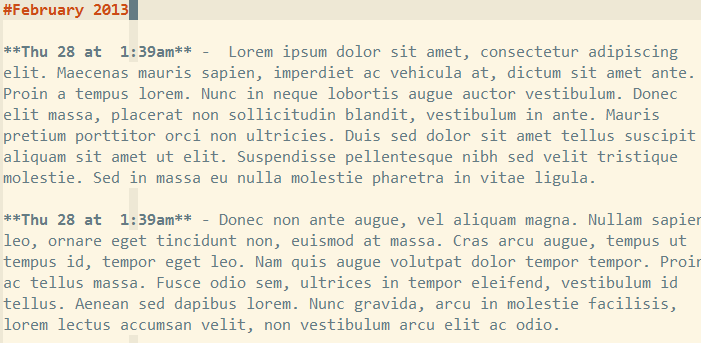
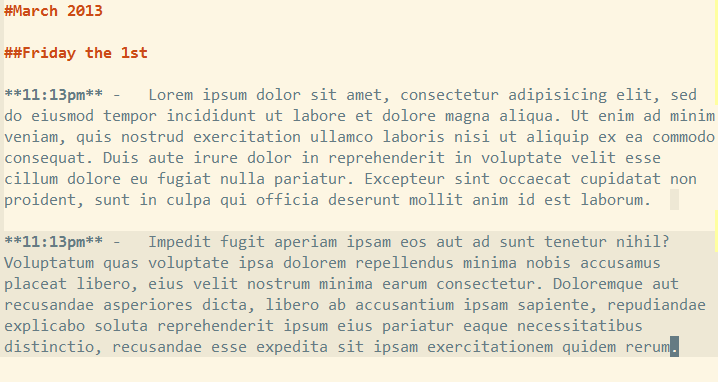
Added configuration handling and privacy page.
Added new functionality allowing users to create a config.yml file in their
dropbox directory to change the way headings are formated.

Also added new content to the About page, and created Configuration and Privacy
pages to explain new features.

diff --git a/app.rb b/app.rb
@@ -4,7 +4,8 @@ require 'yaml'
 require 'dropbox_sdk'
 require 'active_support/core_ext/integer/inflections'
 
-config = YAML::load(File.open('config.yml'))
+YAML::ENGINE.yamler= 'syck'
+config = YAML::load_file('config.yml')
 
 APP_KEY = config['key']
 APP_SECRET = config['secret']
@@ -50,35 +51,55 @@ end
 
 post '/write' do
 
+    # make sure the user authorized with Drobox
     redirect '/login' unless session != nil && session.authorized?
 
     entry = params[:entry]
 
+    # if empty string was submitted, do nothing
     redirect '/write' if entry.empty?
 
     # figure out the name of the file for dropbox
+    # Default format is YYYY-MM-Monthname.markdown
     tm = Time.now
-
     dropFileName = tm.strftime("%Y-%m.%B") + ".markdown"
 
-    # Define the headings:
-
-    # Time of post
-    heading = "**" + tm.strftime("%l:%M%P") + "** -\t"
-    # Day of the week
-    daily_heading = "##" + tm.strftime("%A") + " the " + tm.day.ordinalize
-    # Month and year
+    # Define the default headings 
+    
+    # Month and year - goes at the top of a new document
     big_heading = "#" + tm.strftime("%B %Y")
+    
+    # Day of the week - only included once per day
+    daily_heading = "##" + tm.strftime("%A") + " the " + tm.day.ordinalize
+    
+    # Time-stamp for each entry
+    heading = "**" + tm.strftime("%l:%M%P") + "** -\t"
 
     tmpfile = Tempfile.new(dropFileName)
+    client = DropboxClient.new(session, ACCESS_TYPE)
 
-    #download the file if it exists
+    # check for config.yml in users folder
     begin
-        client = DropboxClient.new(session, ACCESS_TYPE)
+        tmpcnf = client.get_file("config.yml")
+        puts tmpcnf
+        cnf = YAML::load(tmpcnf)
+
+        big_heading = "#" + tm.strftime(cnf['document_heading']) unless cnf['document_heading'] == nil
+        daily_heading = "##" + tm.strftime(cnf['daily_heading']) unless cnf['daily_heading'] == nil
+        heading = "**" + tm.strftime(cnf['timestamp']) + "** -\t" unless cnf['timestamp'] == nil
+    rescue 
+        puts "No config file..."
+    end
+
+
+
+    begin
+        # try downloading this months file
         oldfile = client.get_file(dropFileName)
         tmpfile.write(oldfile)
         tmpfile.write("  \r\n  \r\n")
     rescue
+        # if the file does not exist on dropbox create new tempfile
         puts "File not found... Creating new one"
         tmpfile.write(big_heading+"  \r\n  \r\n")
     end 
@@ -94,11 +115,13 @@ post '/write' do
     # Drobpbox upload
     tmpfile.open
     response = client.put_file("/"+dropFileName, tmpfile, true)
-    puts "uploaded: ", response.inspect
+    #puts "uploaded: ", response.inspect
 
+    # cleanup
     tmpfile.close
     tmpfile.unlink
 
+    # display the write page again
     @blink = 'logout'
     @btext = 'Log Out'
     @bclass =''
@@ -111,4 +134,12 @@ end
 
 get '/contact' do
     erb :contact
+end
+
+get '/config' do
+    erb :config
+end
+
+get '/privacy' do
+    erb :privacy
 end
